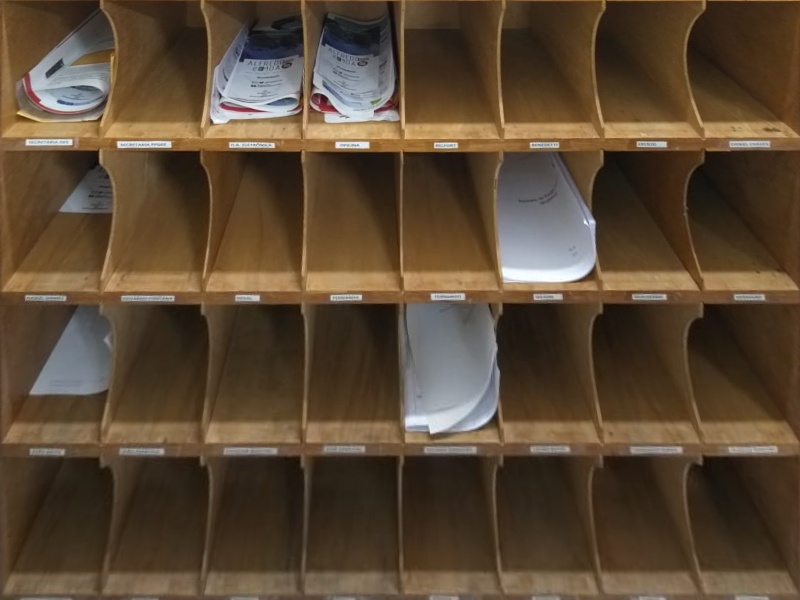
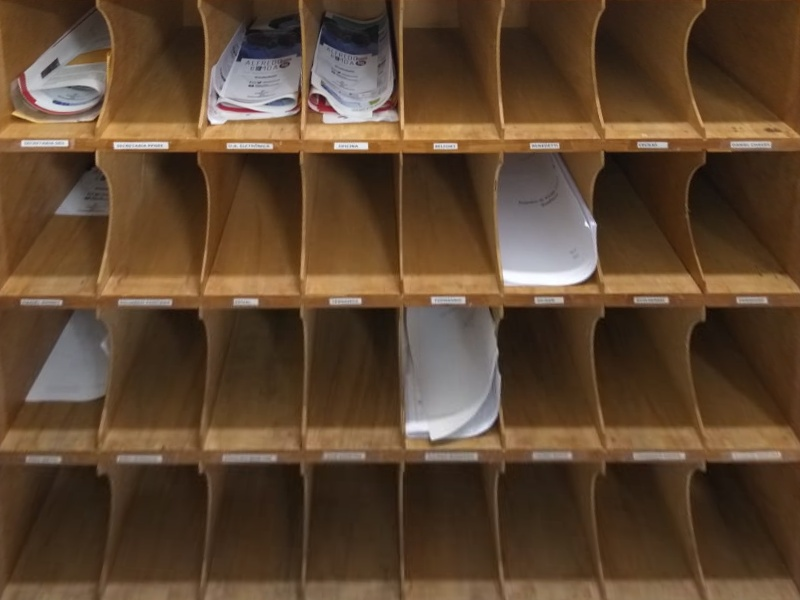
commit quase que final

diff --git a/definePerspectiva.py b/definePerspectiva.py
@@ -8,7 +8,7 @@ def definePerspectiva():
     ix,iy = -1,-1
     pontos = np.zeros((4,2))
     count = 0
-    maskframe = cv2.imread('Imagens/ImagemControle0.jpeg')
+    maskframe = cv2.imread('Imagens/ImagemFind0_1_8.jpeg')
     maskara =   maskframe.copy()
     img = maskframe.copy()
     img[:,:,:] = 0
@@ -53,8 +53,8 @@ def definePerspectiva():
             pts2 = np.float32([[0,0],[cols,0],[cols,rows],[0,rows]])
             M = cv2.getPerspectiveTransform(pts1,pts2)
             perspectiva = cv2.warpPerspective(maskframe,M,(cols,rows))
-            cv2.imwrite('Imagens/perspectivaTeste.jpg',perspectiva)
-            np.savetxt("Files/pontosPerspectiva.txt", pontos)
+            cv2.imwrite('Imagens/perspectivaTeste3.jpg',perspectiva)
+            np.savetxt("Files/pontosPerspectiva3.txt", pontos)
 
             for x in range (8):
                 for y in range (4):
@@ -62,7 +62,7 @@ def definePerspectiva():
                     #retangulos[(150*y+30):(150*y+120),(100*x+20):(100*x+70),:] = media[:3]
                     vetorMedias[i] = np.mean(media[:3])
                     i += 1
-            np.savetxt("mediasRef.txt", vetorMedias)
+            np.savetxt("mediasRef2.txt", vetorMedias)
             break
         if k == 27:
             break

diff --git a/Validation.py b/Validation.py
@@ -8,15 +8,15 @@ import math
 def ValidationImg(perspectiva): #função se valida se o escaninho esta obstruido ou não
 
     bordas = cv2.Canny(perspectiva,50,120)
-    linhas = cv2.HoughLines(bordas, 1, np.pi / 180, 240, 800, 0)
+    linhas = cv2.HoughLines(bordas, 1, np.pi / 180, 240, 600, 0)
     bordas_copia = cv2.cvtColor(bordas, cv2.COLOR_GRAY2BGR)
-    if(linhas.shape[0] >= 10): #valor de calibração
+    if(linhas.shape[0] >= 3): #valor de calibração
         return 1#,linhas,bordas_copia,bordas
     else:
         return 0#,linhas,bordas_copia,bordas
 
 
-'''perspectiva = cv2.imread('Imagens/perspectivaTeste.jpg')
+'''perspectiva = cv2.imread('Imagens/perspectivaTeste3.jpg')
 cv2.imshow('Original my eggs',perspectiva)
 
 
@@ -26,8 +26,7 @@ cv2.imshow('Original my eggs',perspectiva)
 #minLineLength = 800
 #maxLineGap = 0      
 
-
-podeSeguir = ValidationImg(perspectiva)
+podeSeguir,linhas,bordas_copia,bordas = ValidationImg(perspectiva)
 print(podeSeguir)
 for i in range(0, len(linhas)):
     rho = linhas[i][0][0]
@@ -42,7 +41,8 @@ for i in range(0, len(linhas)):
 
 print(linhas.shape[0])
 cv2.imshow('Bordas',bordas)
-cv2.imshow('Linhas',bordas_copia)'''
+cv2.imshow('Linhas',bordas_copia)
+#waitkey('32')'''
 
 
 

diff --git a/EscaninhoMain.py b/EscaninhoMain.py
@@ -7,22 +7,26 @@ from definePerspectiva import definePerspectiva
 from Validation import ValidationImg
 from VerifyT import VerifyTA
 from funcaoPerspectiva import funcaoPerspectiva
-
+import risingedge
 #definePerspectiva()
 #while(clock de 5 mim)
 
 #Substituir pela função de captura da PI
 #cam = PiCamera()
 #imagem = cam.capture()
-imagem = cv2.imread('Imagens/ImagemControle0.jpeg')
+#definePerspectiva()
+imagem = cv2.imread('Imagens/ImagemFind0_1_8.jpeg')
 
 perspectiva = funcaoPerspectiva(imagem)
 
 if (ValidationImg(perspectiva)):
+	#m3 = funcaodavid(perspectiva)
     m2 = VerifyTA(perspectiva) #matriz atual do escaninho é retornada
-    m1 = np.loadtxt('Files/statusPassado.txt')
-    risingedge(m1,m2)
-    np.savetxt('Files/statusPassado.txt',m2,'w')
+    m1 = np.loadtxt('Files/statusPassado.txt',dtype=int)
+    print(m1)
+    print(m2)
+    risingedge.risingedge(m1,m2)
+    np.savetxt('Files/statusPassado.txt',m2)
     
 else:
     print('Iamgem obstruida')

diff --git a/emailto.py b/emailto.py
@@ -10,7 +10,7 @@ def emailto(x,y):
 	emails=f.read().split()
 	for i in range(0,len(emails)):
          emails[i]=emails[i].split(',')
-	print(emails)
+	#print(emails)
 	# conexão com os servidores do google
 	smtp_ssl_host = 'smtp.gmail.com'
 	smtp_ssl_port = 465
@@ -38,3 +38,7 @@ def emailto(x,y):
 	server.sendmail(from_addr, to_addrs, message.as_string())
 	server.quit()
 
+#0 0 0 0 0 0 0 0
+#0 0 0 0 0 0 0 0
+#0 0 0 0 0 0 0 0
+#0 0 0 0 0 0 0 0

diff --git a/funcaoPerspectiva.py b/funcaoPerspectiva.py
@@ -7,7 +7,7 @@ def funcaoPerspectiva(imagem):
     cols = 800
     rows = 600
 
-    pontosPerspectiva = np.loadtxt('Files/pontosPerspectiva.txt')
+    pontosPerspectiva = np.loadtxt('Files/pontosPerspectiva3.txt')
     pts1 = np.float32([pontosPerspectiva[0],pontosPerspectiva[1],pontosPerspectiva[2],pontosPerspectiva[3]])
     pts2 = np.float32([[0,0],[cols,0],[cols,rows],[0,rows]])
     M = cv2.getPerspectiveTransform(pts1,pts2)

diff --git a/VerifyT.py b/VerifyT.py
@@ -11,7 +11,7 @@ from ROI import ROI
 def VerifyTA (perspectiva):
     perspectivaGray = cv2.cvtColor(perspectiva, cv2.COLOR_BGR2GRAY)
 
-    escaninhoAtual = np.zeros((4,8))
+    escaninhoAtual = np.zeros((4,8),dtype=int)
     #print(escaninho)
 
     #tipo_str = ["cv2.THRESH_BINARY", "cv2.THRESH_BINARY_INV", "cv2.THRESH_TRUNC",

diff --git a/risingedge.py b/risingedge.py
@@ -1,7 +1,7 @@
 import numpy as np
 import emailto
 
-def risingegde(m1,m2):
+def risingedge(m1,m2):
     m = np.bitwise_xor(m1,m2)
     x = 0
     y = 0
